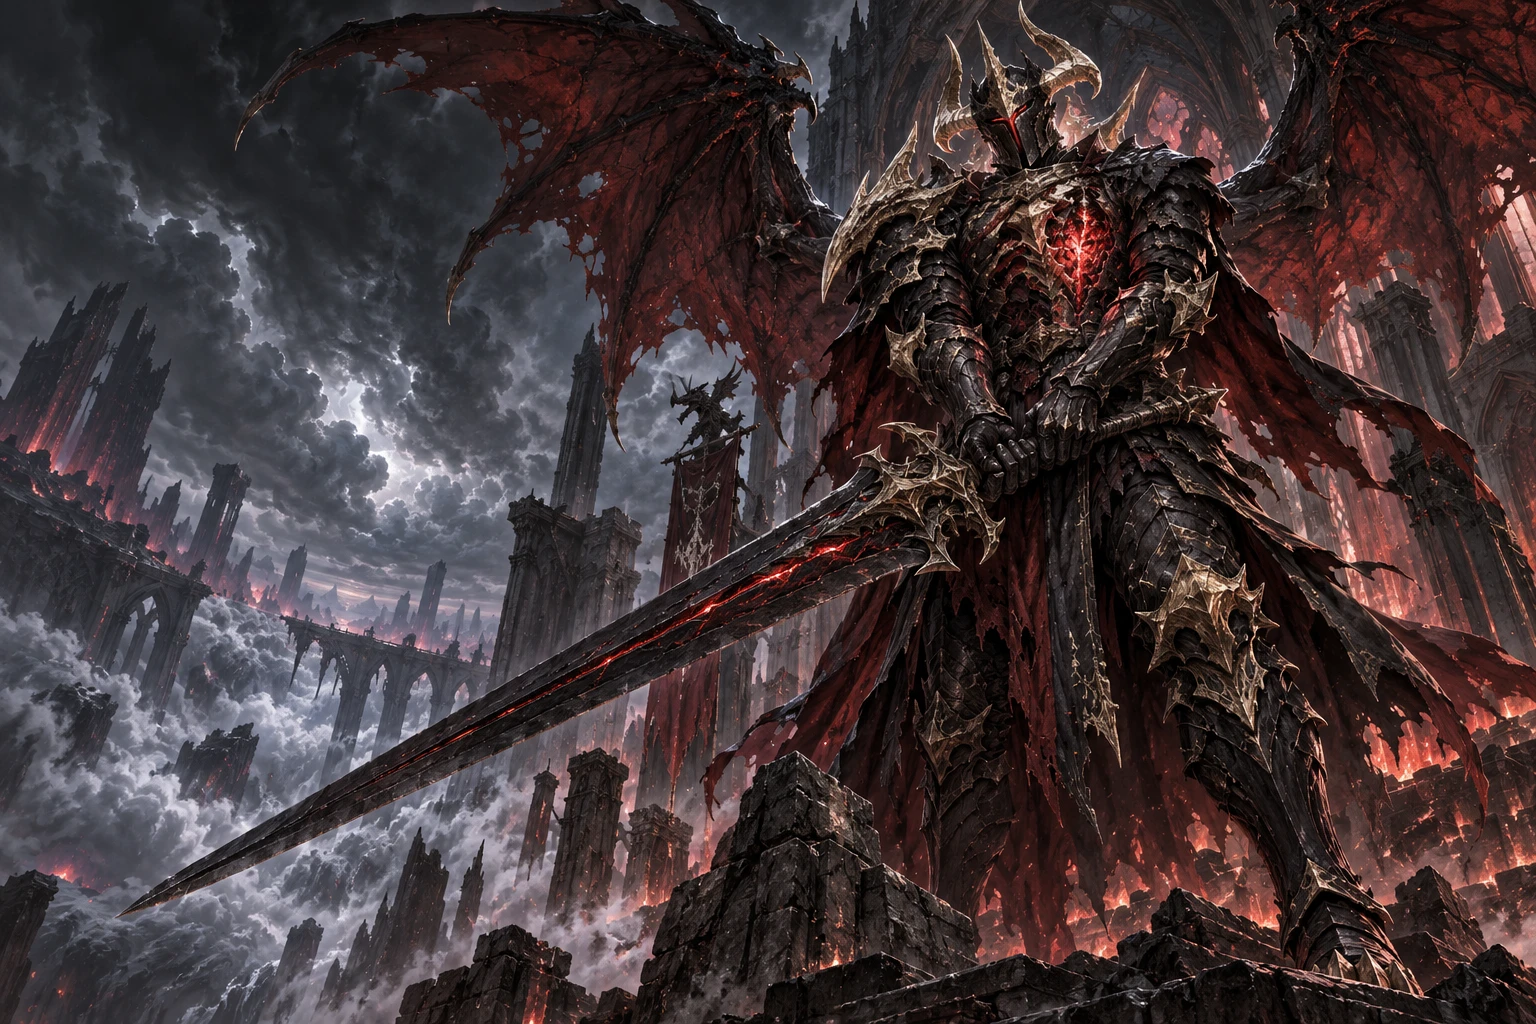
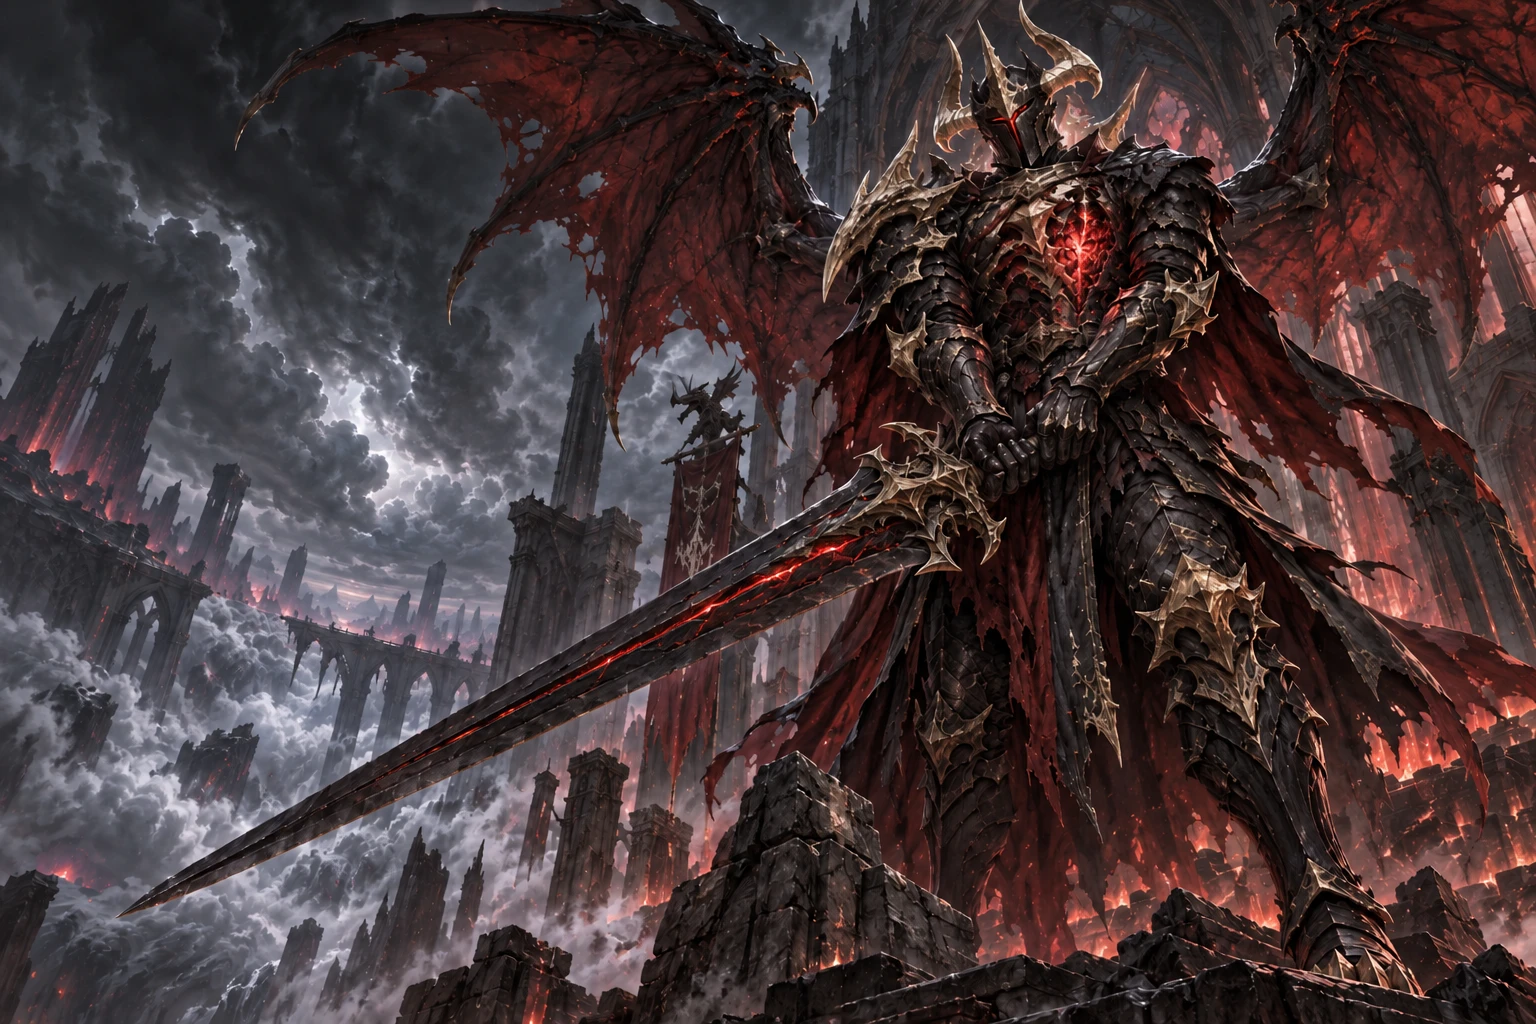
fix: shorten protruding Blackwing boss sword hilt

diff --git a/raid/blackwing/ui.css b/raid/blackwing/ui.css
@@ -52,7 +52,7 @@
 .bw-guide{padding:28px;background:#0c1220;border-top:1px solid var(--mr-line)}.bw-guide>header>p:last-child{font-size:12px;color:var(--mr-muted);line-height:1.7;margin-top:-7px}
 .bw-guide-steps{list-style:none;margin:22px 0 0;padding:0;display:grid;grid-template-columns:repeat(3,minmax(0,1fr));gap:24px}.bw-guide-steps>li{display:flex;gap:14px;border-top:1px solid #34445e;padding-top:15px;min-width:0}.bw-guide-steps>li>b{font:600 30px MadaraNumbers,sans-serif;color:#7f98b9}.bw-guide h4{font-size:15px;margin:0 0 8px}.bw-guide-steps p{font-size:12px;line-height:1.9;color:#b3c4dc;word-break:keep-all;margin:0}.bw-guide-steps p strong{color:#e7f1ff}.bw-guide summary{cursor:pointer;color:var(--mr-cyan);font-size:12px;min-height:44px;display:flex;align-items:center}.bw-guide summary:before{content:'＋';margin-right:6px}.bw-guide details[open] summary:before{content:'−'}.bw-failure-rule{font-size:12px;color:#d9bdab;line-height:1.8;margin:25px 0 0;border-top:1px solid var(--mr-line);padding-top:18px}
 .bw-combat{position:fixed;inset:0;z-index:21000;display:grid;grid-template-rows:auto minmax(240px,1fr) auto auto;padding:8px;gap:6px;overflow:auto}
-.bw-top{display:flex;align-items:center;gap:12px;padding:8px 14px;background:#111828;border:1px solid var(--mr-line);border-radius:7px}.bw-top>div{flex:1;min-width:0}.bw-top h3{margin:0;font-size:17px}.bw-clock{font-size:12px;font-variant-numeric:tabular-nums;color:#b5d5ed}.bw-top>[data-strain]{font-size:12px;color:#b7c7dd}.bw-boss-portrait{width:50px;height:55px;flex-shrink:0;border:1px solid #5e4351;border-radius:5px;background:#111828 url('/assets/raids/blackwing-20261024/boss-art.webp') 67% 0%/300% auto no-repeat}
+.bw-top{display:flex;align-items:center;gap:12px;padding:8px 14px;background:#111828;border:1px solid var(--mr-line);border-radius:7px}.bw-top>div{flex:1;min-width:0}.bw-top h3{margin:0;font-size:17px}.bw-clock{font-size:12px;font-variant-numeric:tabular-nums;color:#b5d5ed}.bw-top>[data-strain]{font-size:12px;color:#b7c7dd}.bw-boss-portrait{width:50px;height:55px;flex-shrink:0;border:1px solid #5e4351;border-radius:5px;background:#111828 url('/assets/raids/blackwing-20261024/boss-art.webp?v=20261024-hilt-short1') 67% 0%/300% auto no-repeat}
 .bw-battle-mount{position:relative;min-height:0;width:100%;height:100%;overflow:hidden}
 .bw-party-strip{display:grid;grid-template-columns:repeat(6,minmax(0,1fr));gap:6px}.bw-party-chip{display:flex;align-items:center;gap:7px;padding:6px;background:#111828;border:1px solid var(--mr-line);border-radius:5px;min-width:0}.bw-party-chip.is-me{border-color:#81a5b5}.bw-party-chip>div{min-width:0;flex:1}.bw-party-chip .bw-face{width:34px;height:42px}.bw-party-chip strong{display:block;font-size:10px;white-space:nowrap;overflow:hidden;text-overflow:ellipsis}.bw-party-chip small{font-size:9px;color:var(--mr-muted)}.bw-party-chip meter{display:block;width:100%;height:7px;margin-top:4px;accent-color:var(--mr-lime)}
 .bw-command{padding:13px 16px;background:#111828;border:1px solid var(--mr-line);border-radius:7px;max-height:32vh;overflow:auto}.bw-command h4{margin:0 0 8px;font-size:16px}.bw-command p{margin:6px 0;font-size:13px;line-height:1.7;color:#b8cbe1}.bw-command .bw-status{color:#ffc6b1}.bw-command .bw-actions{margin-top:8px}.bw-command button{min-width:110px}.bw-command .bw-actions>span{font-size:12px;color:var(--mr-muted)}

diff --git a/index.html b/index.html
@@ -239,6 +239,6 @@ body.v21-ui-ready .v21-renewal-boot{display:none}
 <link rel="stylesheet" href="css/lobby-burning-status-v2111.css?v=2111-burning">
 <link rel="stylesheet" href="css/account-rank-v1.css?v=2122"><script type="module" src="js/account-rank-v1.mjs?rosterRank=20261014&v=2122&amp;benefits=20261008&amp;retired=20261001"></script>
 <script defer src="js/madara-raid-entry-v1.js?v=20261021-varsen1"></script>
-<script defer src="js/blackwing-raid-entry-v1.js?v=20261024-codex-ui4"></script>
+<script defer src="js/blackwing-raid-entry-v1.js?v=20261024-hilt-short1"></script>
 </body>
 </html>

diff --git a/js/blackwing-raid-entry-v1.js b/js/blackwing-raid-entry-v1.js
@@ -1,6 +1,6 @@
 (() => {
   'use strict';
-  const VERSION = '20261024-codex-ui4';
+  const VERSION = '20261024-hilt-short1';
   let checkedAt = 0, visible = false, featureRequest = null, controller = null, activeRoot = null, revision = 0;
   const host = () => document.getElementById('pveBlackwingRaidView');
   async function refresh() {

diff --git a/docs/qa/blackwing-hilt-fix-20261024/README.md b/docs/qa/blackwing-hilt-fix-20261024/README.md
@@ -1,0 +1,9 @@
+# 흑익 보스 손잡이 정리 · 2026-10-24
+
+사용자 요청: 일러스트 보니까 손 뒤에 손잡이 꺽여있는데 손잡이 줄여서 그냥 없애
+
+- 손 뒤로 튀어나온 굽은 후방 손잡이와 가시 끝 장식을 제거해 뒤쪽 손 바로 끝에서 마무리한다. 칼날·가드·양손 파지·투구·날개·구도를 유지하는 국소 편집이다. 내장 image_gen 도구를 사용했다.
+- 수정 전 PNG와 생성된 수정 PNG를 assets/raids/blackwing-20261024/originals/에 바이트 그대로 보존했다. 표시용 boss-art.webp는 1536×1024, quality 90 형식 변환본이다. 프롬프트·출처·SHA-256은 같은 자산 폴더 manifest.json의 illustrationEdit와 prompts.json에 있다.
+- 기존 로비 원화와 전투 HUD 초상화의 이미지 URL에 캐시 버전을 반영했다. 12프레임 전투 본체·스킬·공통 UI·전투 수치·TEST/보상 잠금은 변경하지 않았다.
+- 검수는 해당 로비의 PC/모바일 이미지 표시와 기존 조작에 한정한다. 기존 blackwing-raid-20261024.browser.mjs의 UI 전용 경로로 검사하며 전체 전투 검사는 반복하지 않는다.
+- 실제 배포 폴더는 C:/Users/User/Downloads/cnine-z-body-sword-20260918/site. 산출물은 C:/Users/User/Downloads/upload/cnine-card/output/blackwing-hilt-fix-20261024/.
